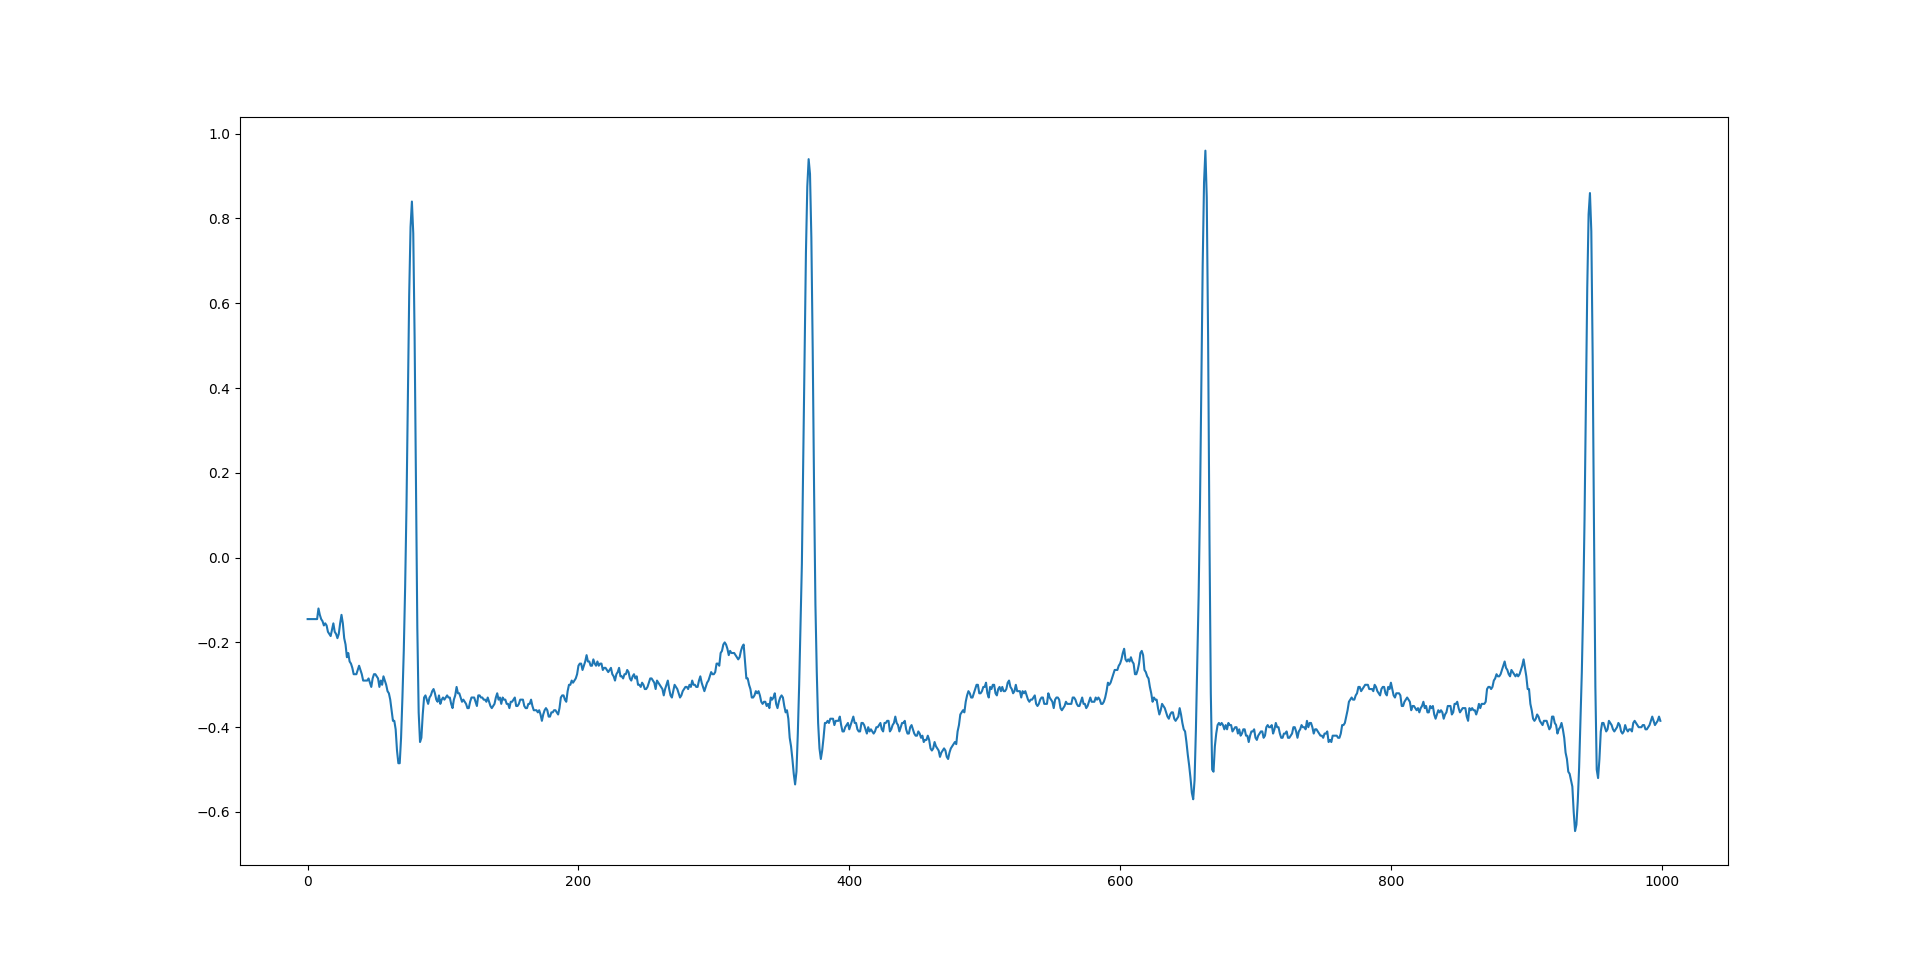
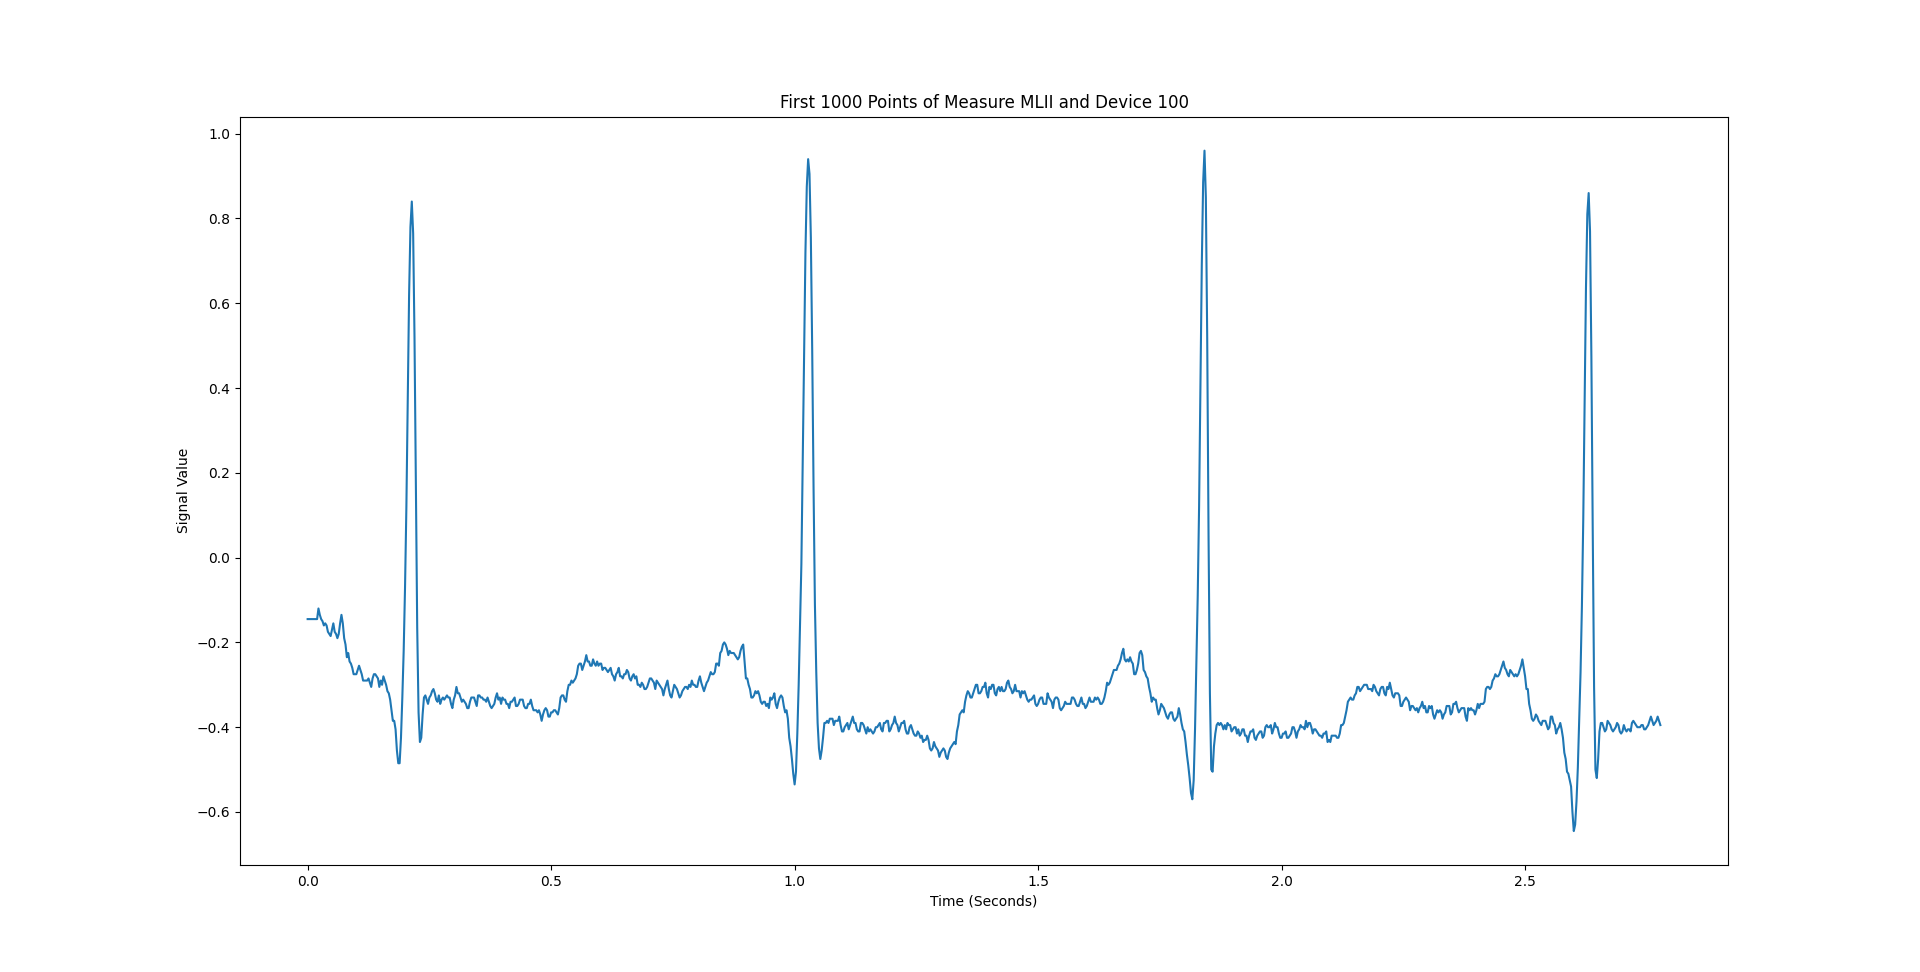
upgrade tutorial.rst

diff --git a/sdk/docs/source/tutorial.rst b/sdk/docs/source/tutorial.rst
@@ -9,13 +9,14 @@ Prerequisites
 - Python 3.8 or higher
 - AtriumSDK library
 - wfdb library
+- matplotlib library
 - tqdm library
 
 You can install the required libraries using pip:
 
 .. code-block:: bash
 
-   pip install atriumdb wfdb tqdm
+   pip install atriumdb wfdb tqdm matplotlib
 
 Creating a New Dataset
 ----------------------
@@ -329,23 +330,40 @@ Visualizing the Dataset
 -------------------------------
 
 Finally, let's retrieve data from our dataset and plot the first 1000 points of the first record's data.
+We will use the `matplotlib` library to create a simple line plot of the data.
 
 .. code-block:: python
 
-   import matplotlib.pyplot as plt
+    import matplotlib.pyplot as plt
 
+    # Define the measure_id and device_id we want to retrieve data for
     measure_id = 1
     device_id = 1
-    measure_info = get_measure_info(measure_id=measure_id)
+
+    # Get the measure information for the specified measure_id
+    measure_info = sdk.get_measure_info(measure_id=measure_id)
+    device_info = sdk.get_device_info(device_id=device_id)
+
+    # Extract the frequency in nanohertz from the measure information
     freq_nhz = measure_info['freq_nhz']
+
+    # Calculate the period in nanoseconds by dividing 10^18 by the frequency in nanohertz
     period_nhz = int((10 ** 18) // freq_nhz)
 
-    start_time_n, end_time = 0, 1001 * period_nhz  # [start, end)
-   _, times, values = sdk.get_data(measure_id=measure_id, device_id=device_id, start_time_n=start_time_n, end_time_n=end_time_n)
+    # Define the start and end time for the data we want to retrieve
+    # We want to retrieve the first 1000 points, so we set the end time to 1001 times the period
+    start_time_n, end_time_n = 0, 1001 * period_nhz  # [start, end)
 
-   # Plot the first 1000 points of the first patients data
-   plt.plot(values)
-   plt.show()
+    # Retrieve the data for the specified measure_id, device_id, start_time_n, and end_time_n
+    _, times, values = sdk.get_data(measure_id=measure_id, device_id=device_id, start_time_n=start_time_n,
+                                    end_time_n=end_time_n)
+
+    # Plot the first 1000 points of the first patient's data using matplotlib
+    plt.plot(times / (10 ** 9), values)  # convert x-axis units to seconds.
+    plt.xlabel("Time (Seconds)")
+    plt.ylabel("Signal Value")
+    plt.title(f"First 1000 Points of Measure {measure_info['tag']} and Device {device_info['tag']}")
+    plt.show()
 
 .. image:: mit_bih_1000_samples.png
    :alt: ECG plot
